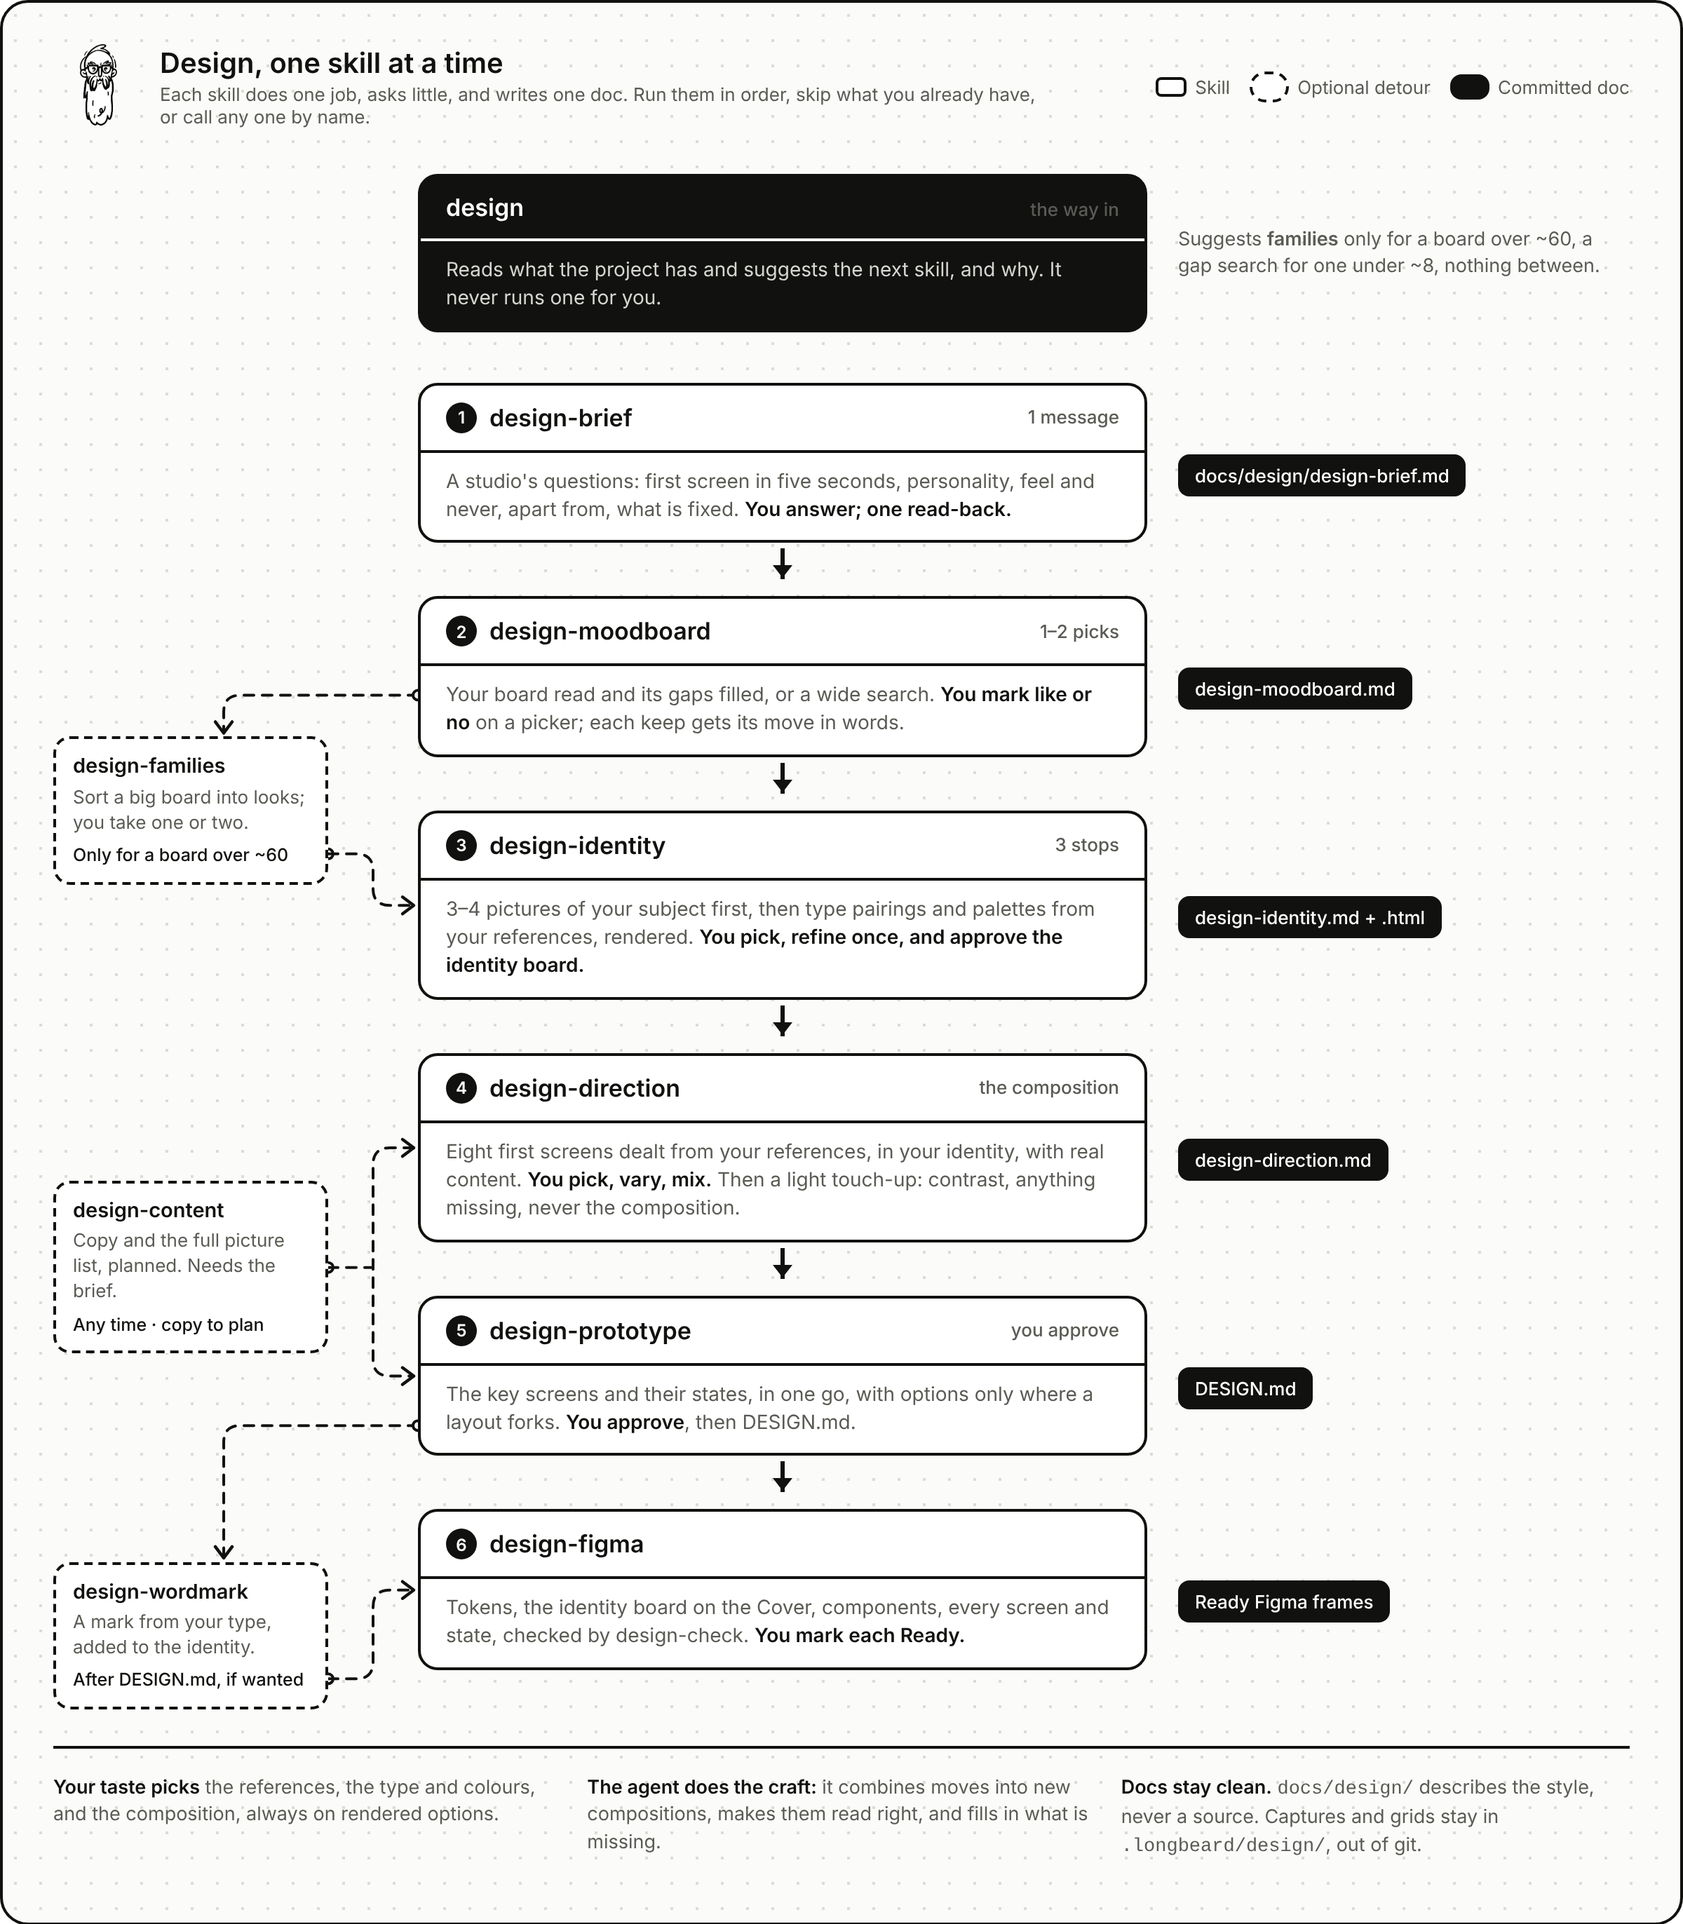
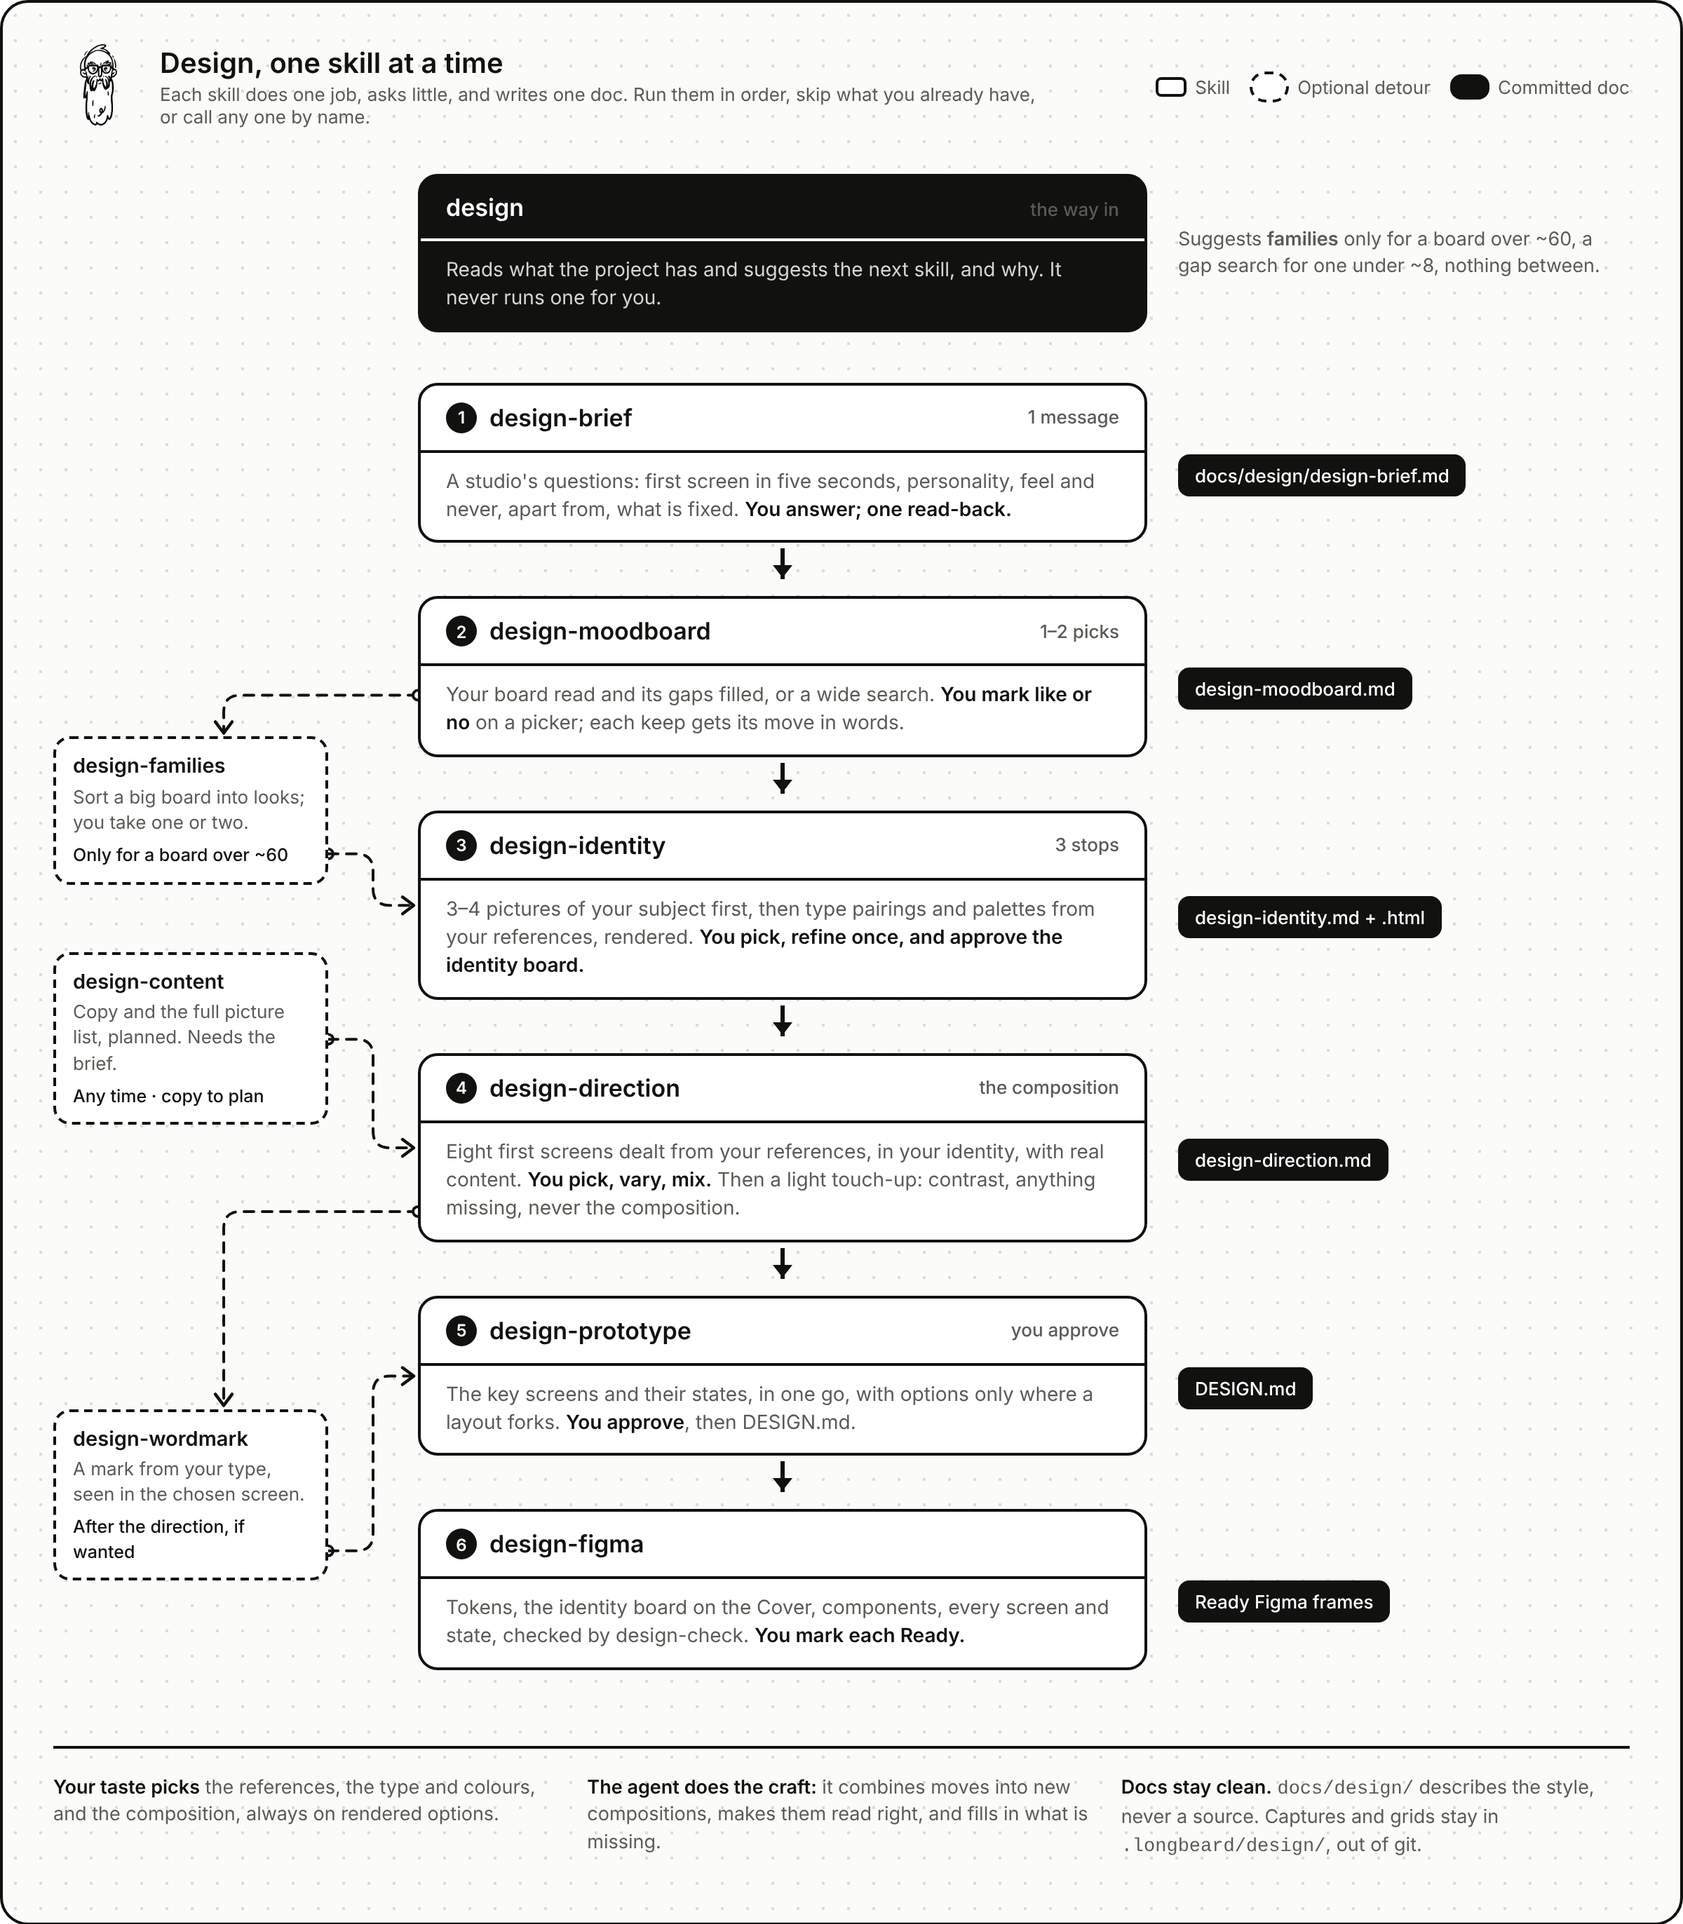
Offer design-wordmark once the direction is chosen, judged where the name sits in the chosen screen; no mark is a fine answer.
Claude-Session: https://claude.ai/code/session_01HLXJ1a49dHFMqgxxmSRYy7

Changed region(s): [[0.0312, 0.6195, 0.1875, 0.8983], [0.0312, 0.4956, 0.1562, 0.5886], [0.2188, 0.7125, 0.25, 0.7434]]

diff --git a/assets/flow-design.html b/assets/flow-design.html
@@ -81,8 +81,8 @@
 
   <div class="rows">
     <div class="detour" style="grid-row: 2 / span 2" id="d-families"><b>design-families</b>Sort a big board into looks; you take one or two.<span>Only for a board over ~60</span></div>
-    <div class="detour" style="grid-row: 4 / span 2" id="d-content"><b>design-content</b>Copy and the full picture list, planned. Needs the brief.<span>Any time · copy to plan</span></div>
-    <div class="detour" style="grid-row: 5 / span 2; align-self: end" id="d-wordmark"><b>design-wordmark</b>A mark from your type, added to the identity.<span>After DESIGN.md, if wanted</span></div>
+    <div class="detour" style="grid-row: 3 / span 2" id="d-content"><b>design-content</b>Copy and the full picture list, planned. Needs the brief.<span>Any time · copy to plan</span></div>
+    <div class="detour" style="grid-row: 5 / span 2" id="d-wordmark"><b>design-wordmark</b>A mark from your type, seen in the chosen screen.<span>After the direction, if wanted</span></div>
     <svg class="links" id="links"></svg>
     <div class="row">
       <div class="mid"><div class="card" id="c1"><h3><span class="t"><span class="n">1</span>design-brief</span> <em>1 message</em></h3><p>A studio's questions: first screen in five seconds, personality, feel and never, apart from, what is fixed. <b>You answer; one read-back.</b></p></div></div>
@@ -142,16 +142,10 @@ function draw() {
   const f = r("d-families"), c = r("d-content"), w = r("d-wordmark");
   down("c2", "d-families");
   ring(f.r, f.b - 22); back("d-families", "c3", f.b - 22, lane);
-  // design-content feeds two steps from one trunk.
-  {
-    const y4 = r("c4").m, y5 = r("c5").m, t4 = r("c4").l - 3, t5 = r("c5").l - 3;
-    ring(c.r, c.m);
-    line(`M${c.r} ${c.m} H${lane}`);
-    line(`M${t4} ${y4} H${lane + k} Q${lane} ${y4} ${lane} ${y4 + k} V${y5 - k} Q${lane} ${y5} ${lane + k} ${y5} H${t5}`);
-    head(t4, y4, 1, 0); head(t5, y5, 1, 0);
-  }
-  down("c5", "d-wordmark");
-  ring(w.r, w.b - 22); back("d-wordmark", "c6", w.b - 22, lane);
+  // design-content feeds the direction; the prototype reads it from there.
+  ring(c.r, c.m); back("d-content", "c4", c.m, lane);
+  down("c4", "d-wordmark");
+  ring(w.r, w.b - 22); back("d-wordmark", "c5", w.b - 22, lane);
   svg.innerHTML = out.join("");
 }
 document.fonts.ready.then(() => { draw(); setTimeout(() => (document.title = "ready"), 200); });

diff --git a/skills/design-wordmark/SKILL.md b/skills/design-wordmark/SKILL.md
@@ -1,18 +1,18 @@
 ---
 name: design-wordmark
 description: >
-  Optional, late. A wordmark made from the identity's own faces and devices:
+  Optional, after the direction. A wordmark made from the identity's own faces and devices:
   four to six marks rendered in the navigation and at hero size on the
   identity's grounds, picked and pushed once. Adds the mark to
   docs/design/design-identity.md and the identity board. Runs once the
-  identity exists, best after DESIGN.md, when they want a mark beyond the name
-  set in the display face.
+  direction is chosen, when they want a mark beyond the name set in the
+  display face.
 ---
 
 # Design wordmark
 
-**Needs:** `docs/design/design-identity.md`  
-**Uses if there:** `docs/design/design-direction.md`, `DESIGN.md`  
+**Needs:** `docs/design/design-identity.md`, `docs/design/design-direction.md`  
+**Uses if there:** `DESIGN.md`  
 **Writes:** `docs/design/wordmark.svg`, a section in `docs/design/design-identity.md`
 
 A product does not need a mark to be designed: until then, the name is set in the display face. This skill is for when they want one. It is not a logo project: it draws marks from the type and colour already chosen.
@@ -21,7 +21,7 @@ Comes out: the chosen mark as SVG in `docs/design/wordmark.svg`, a section in `d
 
 ## Gate
 
-1. No `docs/design/design-identity.md` → `design-identity` first. Stop.
+1. No `docs/design/design-identity.md` → `design-identity` first. No `docs/design/design-direction.md` → `design-direction` first: a mark is judged where the name actually sits. Stop.
 2. A mark exists → a change: show it, ask what changes.
 
 Read the identity, the brief's name and identity nouns, and the design brief's personality.
@@ -30,7 +30,7 @@ Read the identity, the brief's name and identity nouns, and the design brief's p
 
 Four to six marks, each a small HTML page in `.longbeard/design/wordmark/`, made only from the identity's faces and colours and devices that belong to them: a cut, a ligature, a case, a rule, a shape, the accent. One of them is the name set plainly in the display face, so not making a mark is a choice too. Never a stock icon, a generic symbol, or anything from a reference.
 
-Each is shown twice: small, in a navigation bar on the main ground; large, at hero size, on each ground. Capture them and set them on one sheet:
+Each is shown where the name actually sits in the chosen screen (`.longbeard/design/direction/prototype/first.html`), at that size and on that ground, and once large on its own. Where the chosen screen does not show the name at all, that stays so: the mark is for the places that do (the navigation, the tab, the favicon). Capture them and set them on one sheet:
 
 ```
 node <skill>/scripts/capture.mjs "file://$PWD/.longbeard/design/wordmark/1.html" --out .longbeard/design/wordmark/1.png
@@ -55,10 +55,11 @@ On their pick, two or three variations of it (spacing, weight, the device's size
   docs/design/wordmark.svg — <what it does, in one line>. Smallest size: <px>. On: <grounds>.
   ```
 
-- Add it to `docs/design/design-identity.html` (the header), and to the Figma Cover if `design-figma` has run.
+- Add it to `docs/design/design-identity.html` (the header), to the chosen screen in place of the plain name, and to the Figma Cover if `design-figma` has run.
 
 ## Do not
 
-- Make a mark before the identity is chosen, or change the identity to fit a mark.
+- Make a mark before the direction is chosen, or change the identity or the composition to fit a mark.
+- Add the name or the mark to a screen whose composition leaves it out.
 - Use a stock icon, a generic symbol, or a reference's mark.
 - Rank the marks.

diff --git a/PRODUCT.md b/PRODUCT.md
@@ -44,7 +44,7 @@ The rules live in each skill's SKILL.md. Change them there. This is what the pro
 - **design-prototype:** the first screen finished (faces, spacing chosen on a crop, detail, every width, motion replayed from references, the ownable, states, themes), then the other key screens in one go with drafted real copy and the product's own pictures, options only where a layout forks. A pattern that brings a feature the brief lacks goes back to Idea. On their yes to the rendered prototype, `DESIGN.md` in one go, contrast-checked. A feature adds to `DESIGN.md` and never rewrites it; an identity change needs its own yes.
 - **design-figma:** our tokens, never a community kit; the identity board on the Cover, bound to the variables; only the components the key screens need; every screen and reachable state (one nobody can reach recorded as not needed); themes as modes; faithful to the prototype; `design-check` on each; `… — Ready` on their yes. Figma is the truth for screens; `DESIGN.md` is the written summary. Figma is required for UI projects.
 - **design-content** (optional, any time): per key screen, its job, first read, sections with real copy, actions, pictures and states, drafted for them to correct; stand-ins found only for the pictures still missing.
-- **design-wordmark** (optional, late): four to six marks from the identity's faces and devices, the plain name among them; one push; SVG in `docs/design/`.
+- **design-wordmark** (optional, after the direction): four to six marks from the identity's faces and devices, the plain name among them, judged where the name sits in the chosen screen; one push; SVG in `docs/design/`. No mark is a fine answer, and a screen whose composition leaves the name out keeps it out.
 
 **Two folders.** `docs/design/` is committed and kept up to date. It describes the style, never a source: no site, brand, studio, designer, person or link from the references, and no path into the working folder. `.longbeard/design/` is the agents' working folder (captures, pickers, profiles, grids, prototypes), gitignored, and may not survive a cloud session: the docs carry the meaning. `DESIGN.md`, Figma, code, commits, PRs, specs and tickets never name a reference either. Sources are only ones checked to work without a login.
 

diff --git a/README.md b/README.md
@@ -50,7 +50,7 @@ Long Beard's own skills are written here, in [`skills/`](skills/). `init` copies
 | [design-prototype](skills/design-prototype/SKILL.md) | The key screens and their states; `DESIGN.md` on approval | Long Beard |
 | [design-figma](skills/design-figma/SKILL.md) | Tokens, the identity board, components and Ready screens in Figma | Long Beard |
 | [design-content](skills/design-content/SKILL.md) | Optional: what each screen says and shows, and the full picture list | Long Beard |
-| [design-wordmark](skills/design-wordmark/SKILL.md) | Optional: a mark made from your type | Long Beard |
+| [design-wordmark](skills/design-wordmark/SKILL.md) | Optional, after the direction: a mark made from your type | Long Beard |
 | [design-check](skills/design-check/SKILL.md) | Checks a Figma screen or a built one against the design rules and its Ready frame, and that the design docs name no reference. Reports; does not redesign | Long Beard |
 | [Matt Pocock's skills](https://github.com/mattpocock/skills) | Kit: every skill he publishes. Grilling, specs, tickets, test-first building, code review, pull requests, bug diagnosis, handoff | Matt Pocock |
 | [figma-use](https://github.com/figma/mcp-server-guide/tree/main/skills/figma-use), [figma-generate-library](https://github.com/figma/mcp-server-guide/tree/main/skills/figma-generate-library), [figma-generate-design](https://github.com/figma/mcp-server-guide/tree/main/skills/figma-generate-design) | How `design-figma` writes tokens, components and screens in Figma | Figma |

diff --git a/CHANGELOG.md b/CHANGELOG.md
@@ -13,7 +13,7 @@ Design is now a family of small skills, each with one job and one doc, instead o
 - **`design-prototype`** (from `design`): the first screen finished, the other key screens prototyped in one go with drafted copy and the product's own pictures, forks offered, then `DESIGN.md` on your yes. "Beat a plain agent" is gone.
 - **`design-figma`** (from `design`): tokens, the identity board, components, screens and states, each checked and marked Ready.
 - **`design-content`** (new, optional): what each screen says and shows, drafted for you to correct, and the full picture list, with stand-ins found only for the gaps.
-- **`design-wordmark`** (new, optional, late): a mark made from your type, added to the identity.
+- **`design-wordmark`** (new, optional, after the direction): a mark made from your type, judged where the name sits in your chosen screen, added to the identity. No mark is a fine answer.
 - **`design-check`** gains a docs mode: the design docs must not name a reference, link one, or point into the working folder.
 - **Files:** the design docs live in `docs/design/` (`design-brief.md`, `design-moodboard.md`, `design-families.md`, `design-identity.md` and `.html`, `design-direction.md`, `design-content.md`) and are committed: they describe the style, never the source. Captures, pickers, profiles, grids and prototypes live in `.longbeard/design/`, gitignored. Nothing writes to `design-exploration/` any more.
 - The router has one Design row (`design` → Figma) instead of Direction and Design.

diff --git a/skills/design/SKILL.md b/skills/design/SKILL.md
@@ -26,7 +26,7 @@ Each skill says at its top what it **Needs**, what it **Uses if there**, and wha
 | `design-prototype` | The key screens and their states in that direction; approved → `DESIGN.md` |
 | `design-figma` | Tokens, the identity board, components and Ready frames |
 | `design-content` | Optional, any time. What each screen says and shows: copy, and the full picture list |
-| `design-wordmark` | Optional, late. A mark made from the chosen type |
+| `design-wordmark` | Optional, after the direction. A mark made from the chosen type, judged in the chosen screen |
 | `design-check` | Checks a screen against the rules and `DESIGN.md` |
 
 ## Where things go
@@ -55,7 +55,7 @@ Look at the repo. Do not ask what is there. Then say, in up to four lines, where
 
 **Offered once, never pushed:**
 - `design-content`, when they ask about copy or imagery, or the key screens need more pictures than the three or four `design-identity` found.
-- `design-wordmark`, once `DESIGN.md` exists and the name is only set in the display face. Offered once; a no stands.
+- `design-wordmark`, once the direction is chosen and the name is only set in the display face. Offered once; a no stands. No mark is a fine answer: the name in the right face is often the brand, and not every screen needs to show it.
 
 Example:
 

diff --git a/skills/design-figma/SKILL.md b/skills/design-figma/SKILL.md
@@ -53,7 +53,7 @@ If a Figma decision changes a rule (a new token, a variant, a spacing step), upd
 
 ## Then
 
-Offer to delete `.longbeard/design/` working files: the docs, `DESIGN.md` and Figma carry the result. On no, leave them; they are gitignored. Offer `design-wordmark` once if the name is only set in type. Then the next stage: architecture, which they start by typing `/grill-with-docs`.
+Offer to delete `.longbeard/design/` working files: the docs, `DESIGN.md` and Figma carry the result. On no, leave them; they are gitignored. Then the next stage: architecture, which they start by typing `/grill-with-docs`.
 
 ## Do not
 

diff --git a/skills/design-identity/SKILL.md b/skills/design-identity/SKILL.md
@@ -132,7 +132,7 @@ docs/design/design-identity.html
 
 Contrast is checked before it is written (`contrast.mjs "#111 on #eee"`). Faces with a stylesheet outside Google Fonts carry its `css`. Names and values only: no reference, site or person.
 
-Then the next step in one line: `design-direction`. Offer `design-wordmark` only once a `DESIGN.md` exists.
+Then the next step in one line: `design-direction`. A wordmark waits until the direction is chosen (`design-wordmark`): until then the name is set in the display face.
 
 ## Do not
 

diff --git a/skills/design-direction/SKILL.md b/skills/design-direction/SKILL.md
@@ -156,7 +156,7 @@ No reference names, links or paths. Then the direction in five lines, and one qu
 
 > Change anything, or take this into the screens?
 
-Yes → `design-prototype`.
+Yes → `design-prototype`. If the name is only set in the display face, offer `design-wordmark` once, in the same line; no mark is a fine answer.
 
 ## Do not
 
